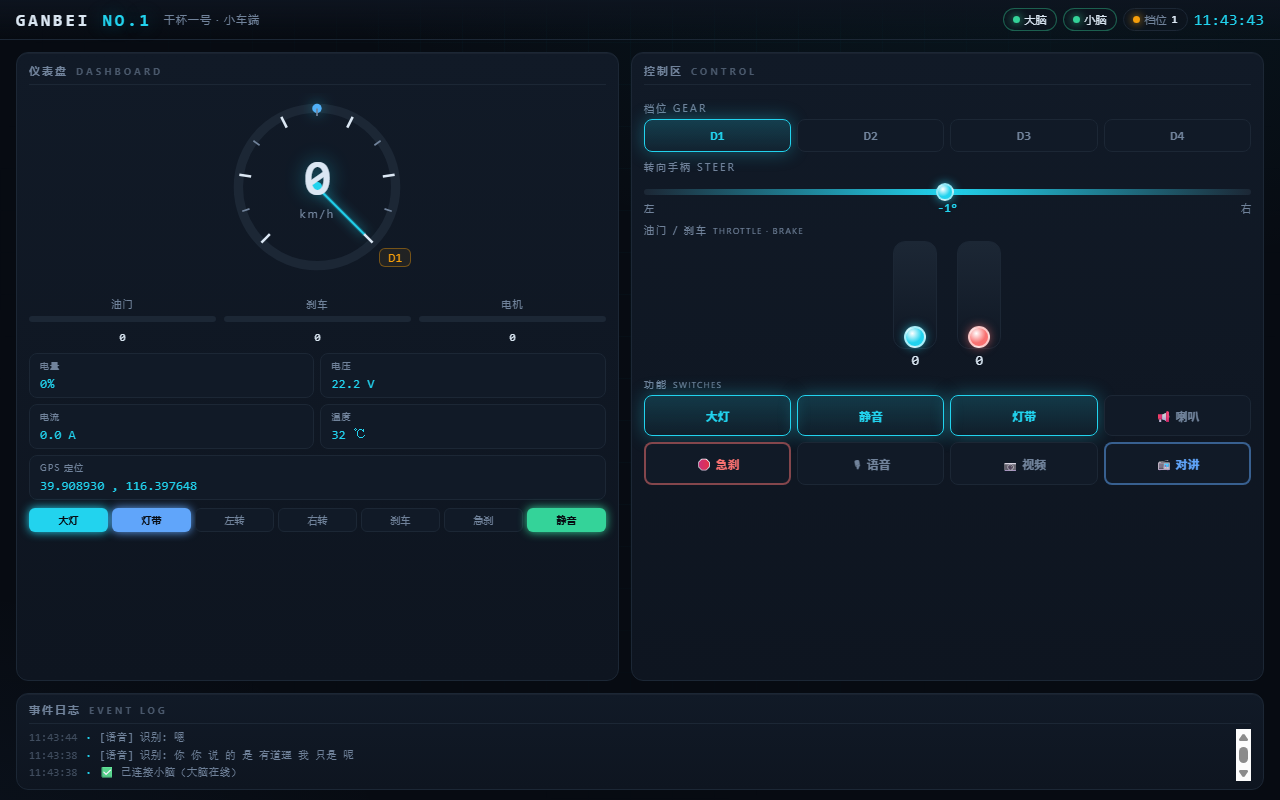
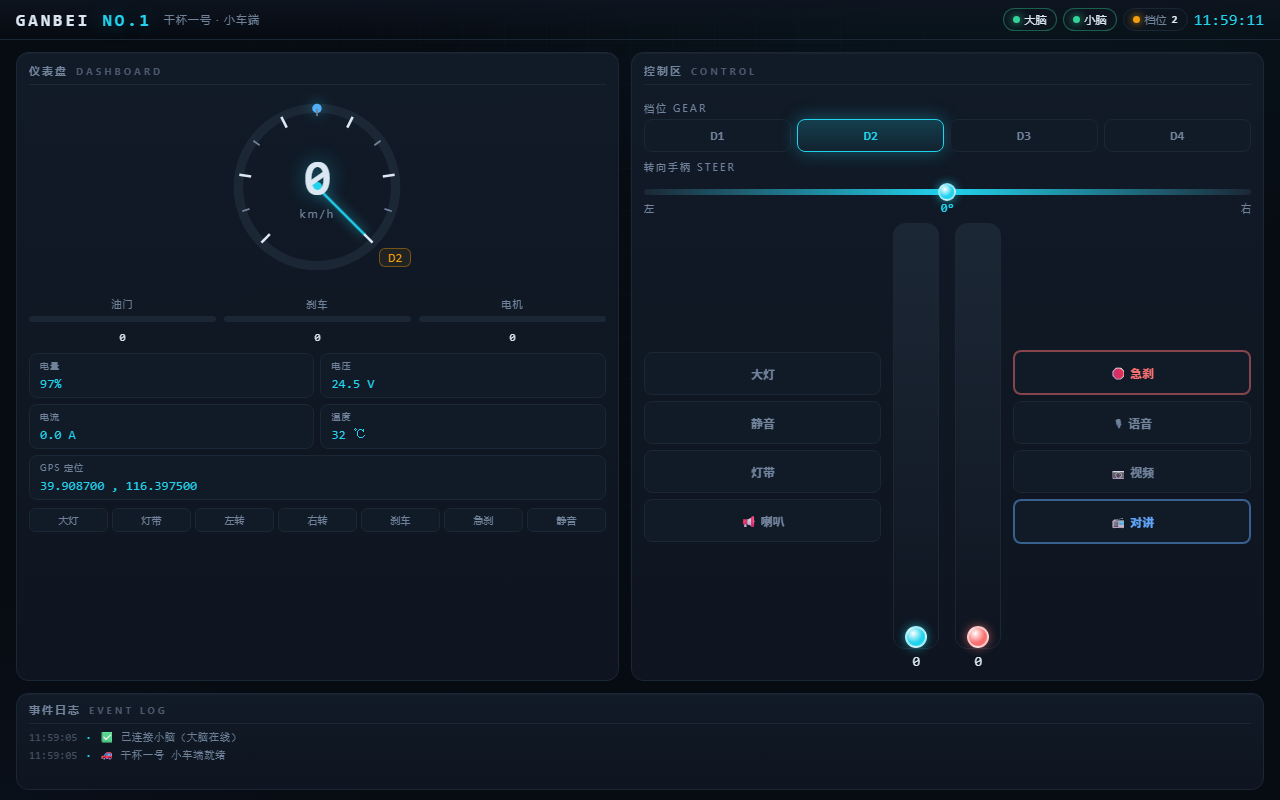
Round 3: control area cockpit layout - long throttle/brake sticks with buttons on sides

diff --git a/logs/开发日记/20260807-day4.md b/logs/开发日记/20260807-day4.md
@@ -140,6 +140,16 @@
 
 **经验**：浏览器无声类问题，90% 是 `AudioContext` 没 `resume()`（autoplay 策略），不是引擎代码错。
 
+### 控制区再调整（第三轮）：操控杆加长 + 按钮排两侧
+
+用户反馈控制区有空白、杆太短。改为"驾驶舱"三分布局：
+
+- **中间**：油门、刹车两个竖向长杆（426px，约占控制区 2/3），随高度 flex 拉伸
+- **左右两侧**：各 4 个统一大小按钮竖排（左：大灯/静音/灯带/喇叭；右：急刹/语音/视频/对讲）
+- grid 三列 `1fr auto 1fr`，DOM 精确验证：左右对称、杆长、无空白无重叠
+
+**经验**：验证布局要设置与用户一致的视口（Emulation.setDeviceMetricsOverride），否则默认小视口触发响应式布局，坐标全错。
+
 ---
 
 ## 写在最后
